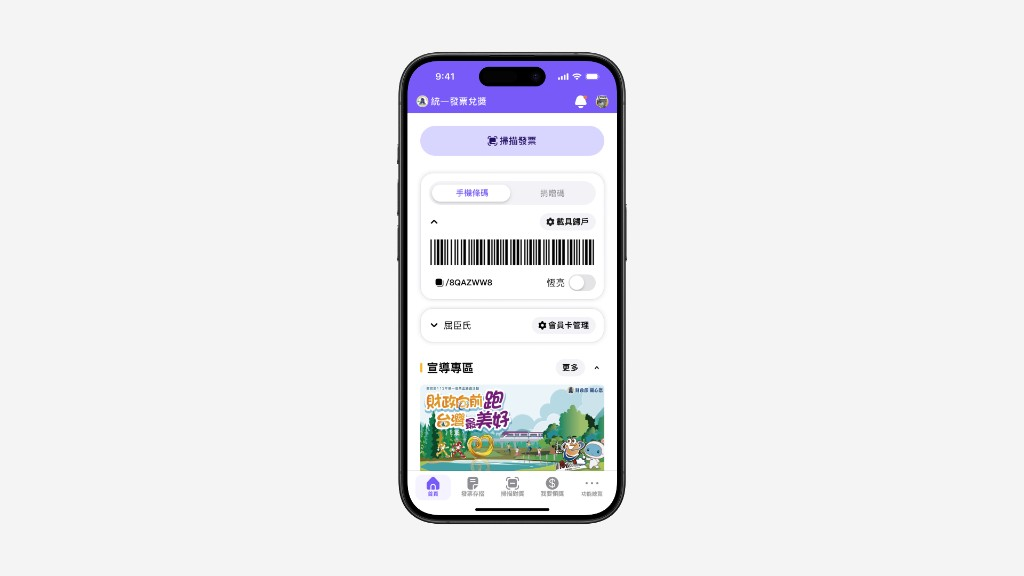
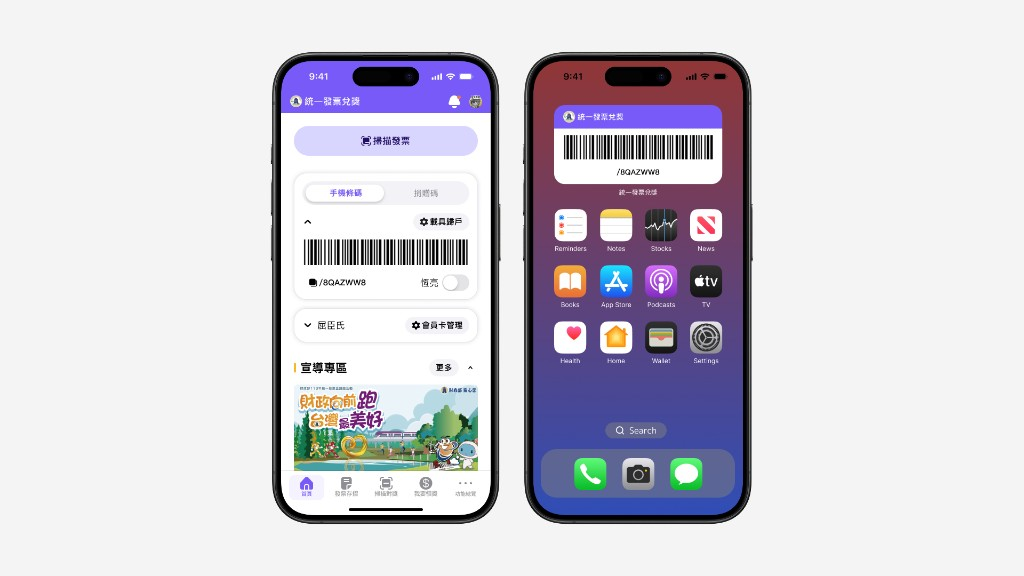
E-invoice: refresh scan-first story copy and home after image
- Expand Evidence / Problem / Decision in scan-first outcome section
- Replace home before/after "after" frame with scan-first + widget mockup
- Update after-image alt text for accessibility

Made-with: Cursor

Changed region(s): [[0.25, 0.0625, 0.75, 0.9375], [0.3125, 0.5625, 0.3438, 0.5938]]

diff --git a/app/case-studies/e-invoice-app/page.tsx b/app/case-studies/e-invoice-app/page.tsx
@@ -95,11 +95,11 @@ const AT_A_GLANCE_ITEMS = [
 /** Everyone agreed on scan-first; rendered above the other outcome rows (text only). */
 const SCAN_SHARED_TRUTH_OUTCOME = {
   evidence:
-    "In field interviews across four age bands, needs diverged everywhere else—but one behavior was universal: the first thing people wanted after launch was to scan a paper invoice. In the legacy layout, scan lived one or two taps away from the visual center, so users hunted before they could act.",
+    "Across all age groups and low-vision participants, one behavior was universal: the primary reason people opened the app was to scan a paper invoice or show their barcode at checkout. But for elderly users, speed was the real barrier — cashiers routinely assumed older customers didn't have the app, and would hand over a paper invoice before the user had a chance to pull out their phone. The app never got used, not because the user gave up, but because the system moved on without them. For users who did get their phone out, the second problem hit: scan wasn't where they expected it. The entry point was buried one or two taps from the visual center, so users hunted while the line moved.",
   problem:
-    "The interface did not match the dominant mental model: scanning is the front door, not a buried utility.",
+    "Two compounding failures: the app wasn't fast enough to surface at checkout, and when it did open, the most-needed action wasn't immediately findable. Together they made the app feel unreliable in the moments that mattered most.",
   decision:
-    "Lock the scan control to the primary focal area on home—always visible, never hidden behind personalization or secondary promos.",
+    "Lock the scan button to the most prominent position on home — always visible on launch, never displaced by promos or personalization. Add a home screen widget so the barcode is accessible without opening the app at all: one less step between pocket and checkout, which is exactly the gap that was causing elderly users to be skipped.",
   outcome:
     "Scan & check prize tasks reached 92% success—the strongest task in the battery—with a median completion time of about 40 seconds.",
 } as const;

diff --git a/app/case-studies/e-invoice-app/HomeBeforeAfterSlider.tsx b/app/case-studies/e-invoice-app/HomeBeforeAfterSlider.tsx
@@ -72,7 +72,7 @@ export function HomeBeforeAfterSlider() {
         {/* After (redesign) — full frame */}
         <Image
           src={AFTER_SRC}
-          alt="Cloud Invoice app home — after redesign"
+          alt="After redesign: app home with scan invoice as the primary action and barcode module; iOS home screen widget shows carrier barcode for quick access"
           fill
           draggable={false}
           className="pointer-events-none object-cover select-none [-webkit-user-drag:none]"
